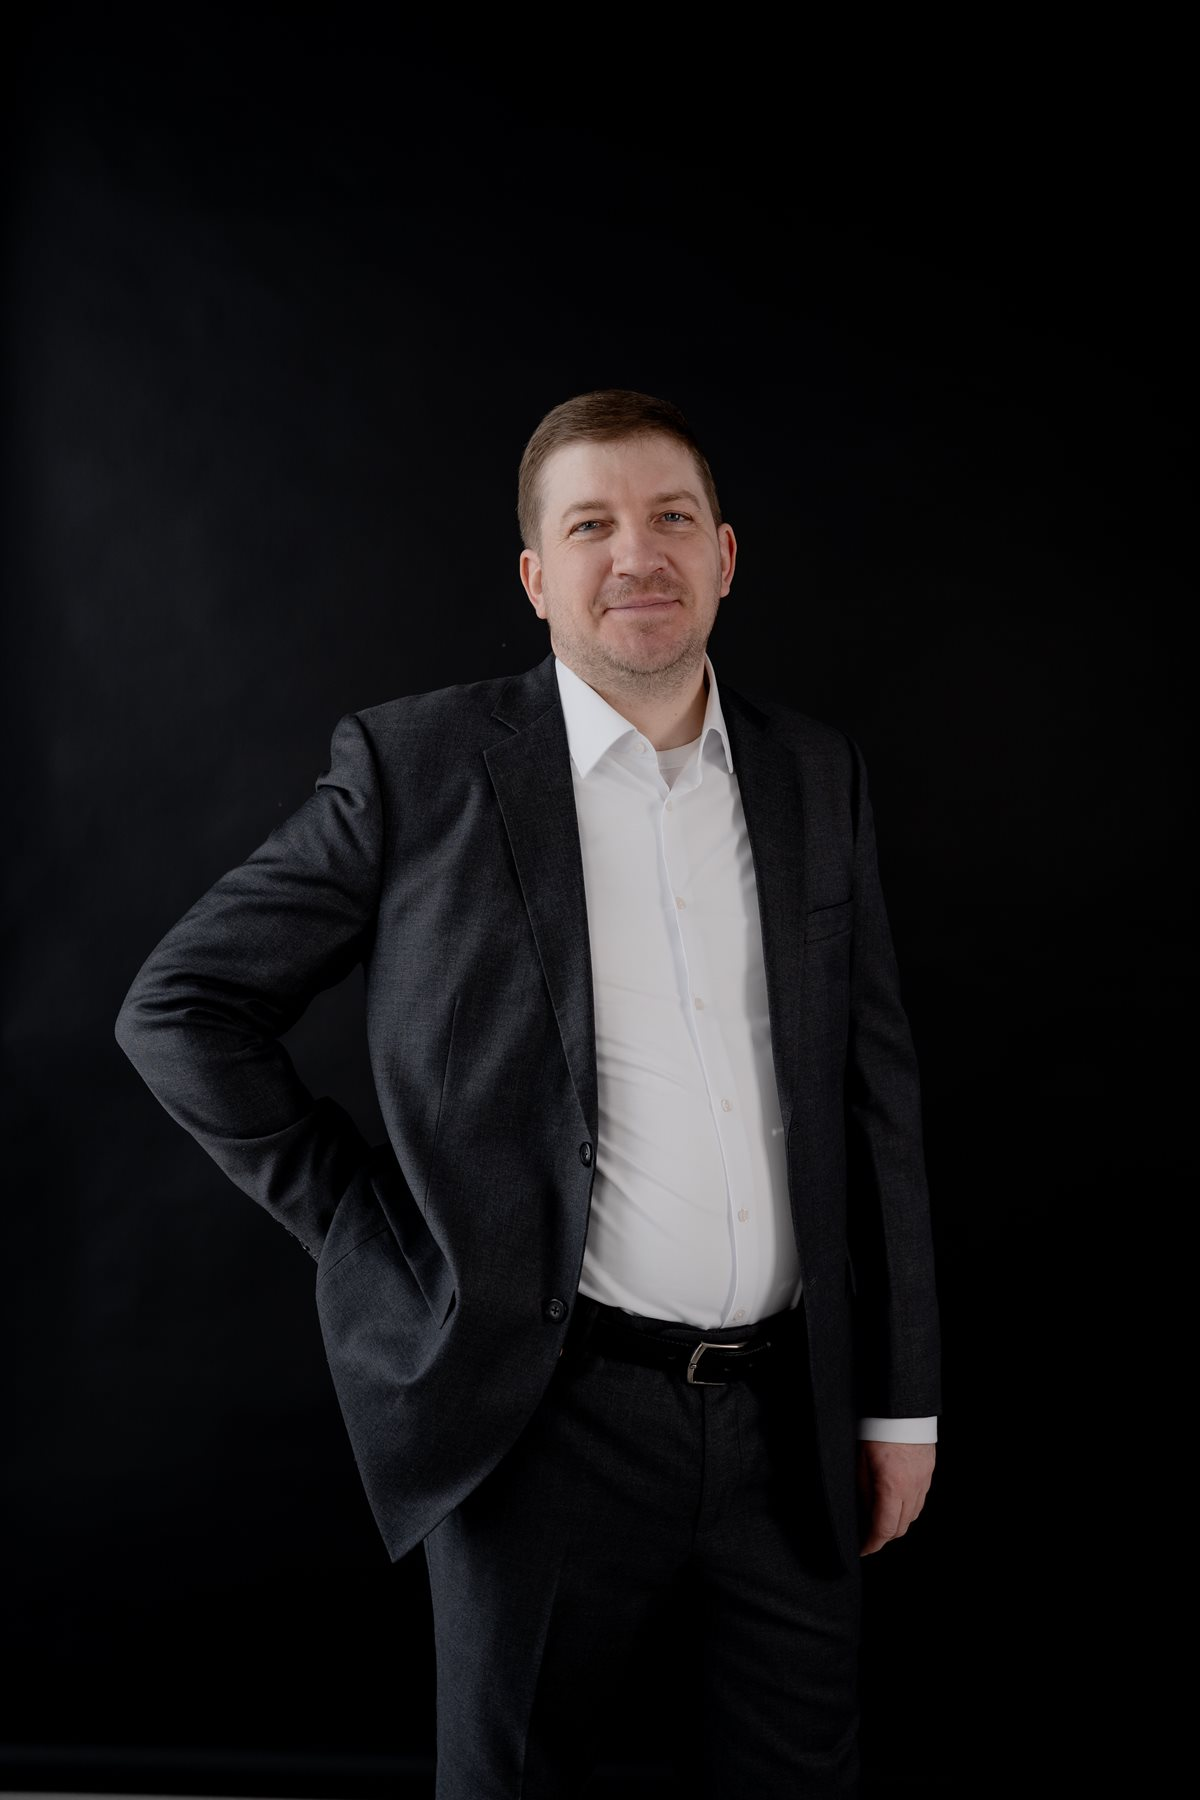
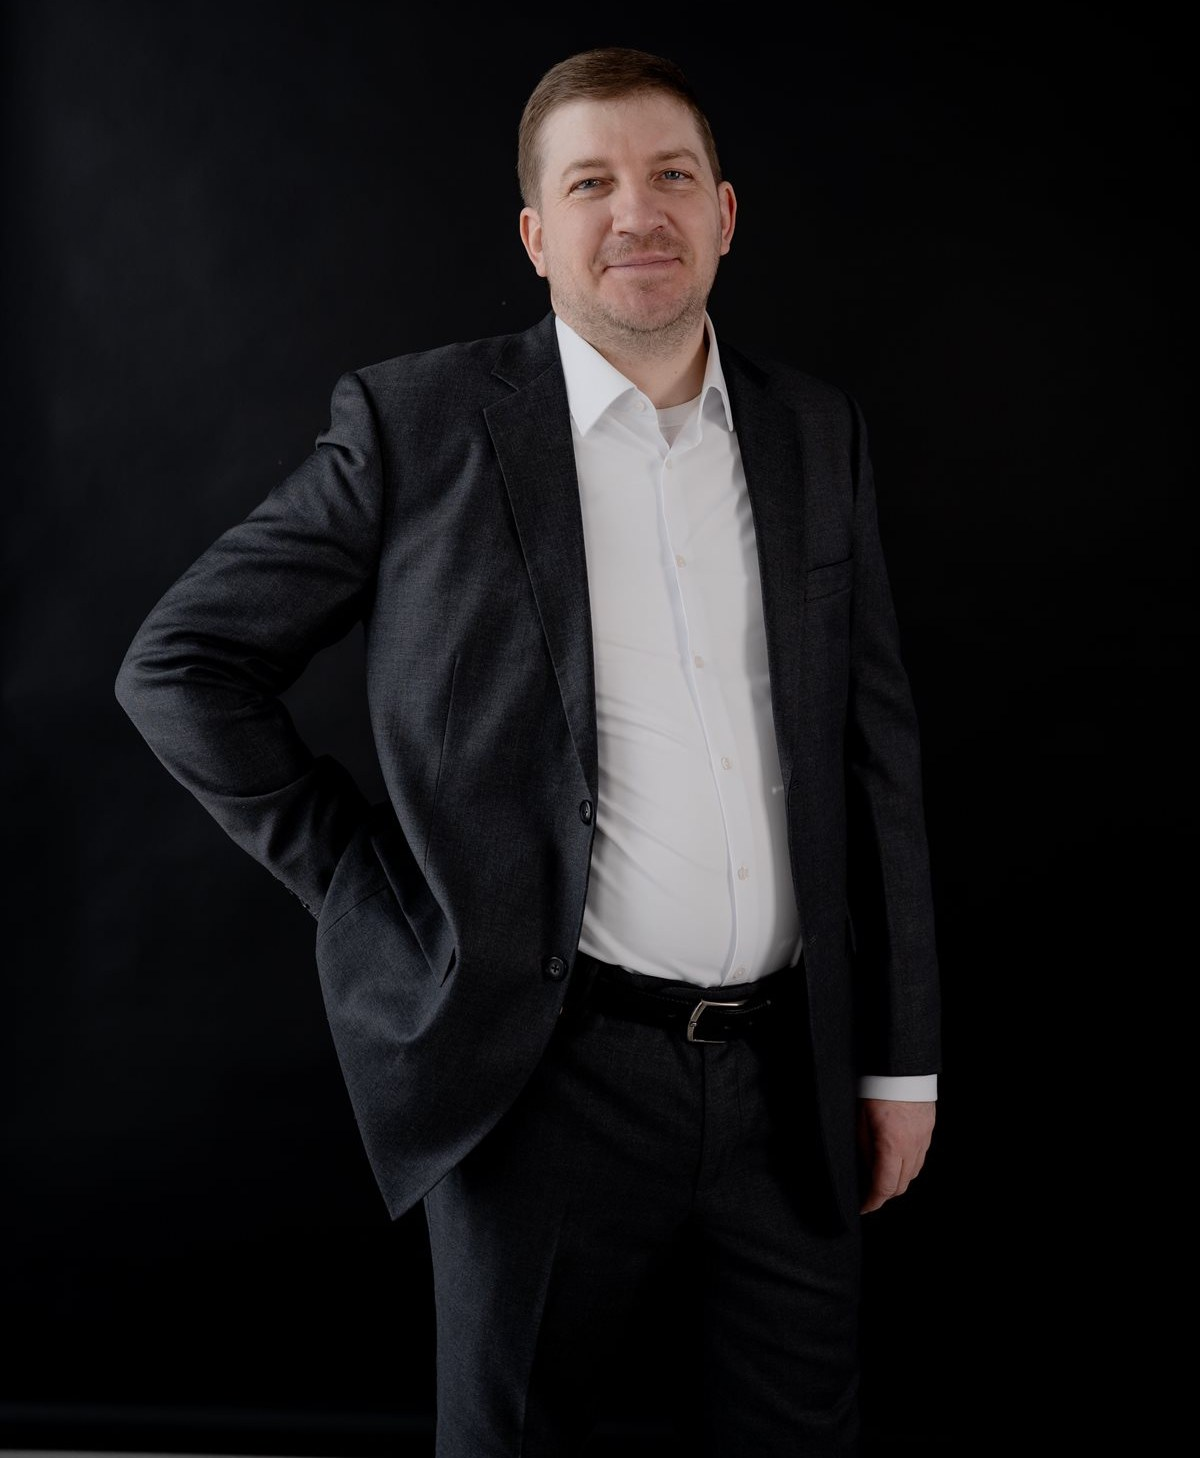
Фикс фото в CTA «Сделайте первый шаг»: обрезан лишний тёмный фон сверху

diff --git a/index.html b/index.html
@@ -499,7 +499,7 @@
 <!-- ===== CTA band ===== -->
 <section class="ctaband section--dark">
   <div class="container ctaband__inner">
-    <div class="ctaband__media reveal"><img src="assets/img/cta-portrait.jpg" alt="Алексей Мицинский" loading="lazy" width="1200" height="1800"></div>
+    <div class="ctaband__media reveal"><img src="assets/img/cta-portrait.jpg" alt="Алексей Мицинский" loading="lazy" width="1200" height="1458"></div>
     <div class="ctaband__content reveal">
       <h2 class="section__title">Сделайте первый шаг к себе</h2>
       <p>Самое сложное - решиться. Дальше мы идём вместе, в Вашем темпе и с полной конфиденциальностью.</p>